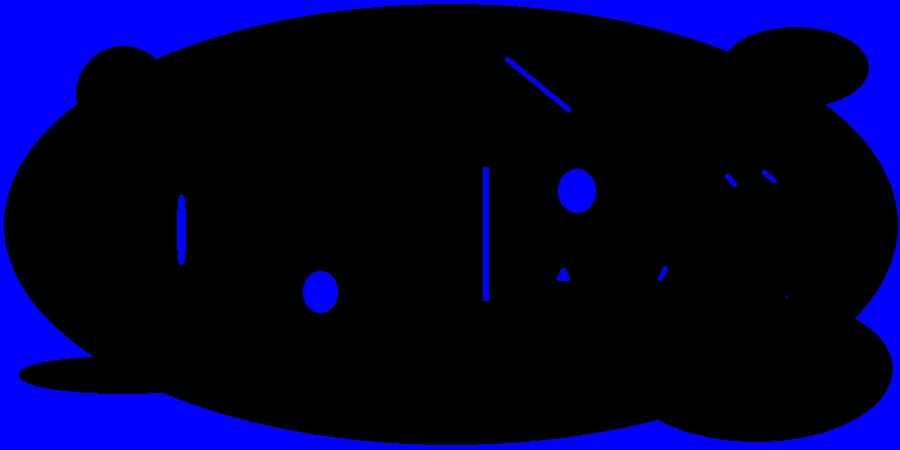
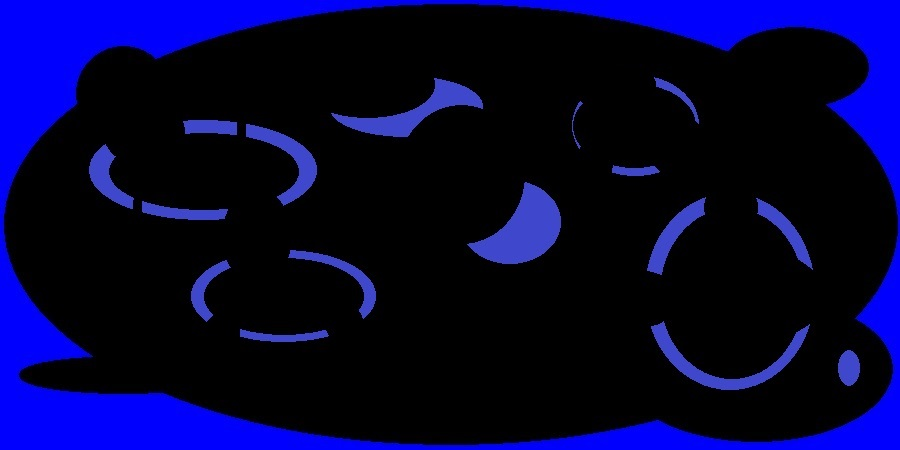
20191124-01

diff --git a/Environment/Body/FreeRunner.cs b/Environment/Body/FreeRunner.cs
@@ -13,17 +13,24 @@ namespace Environment.Body
         private List<Sensor.Sonar> Sonares { get; set; } = new List<Sensor.Sonar>();
         #endregion
 
-        public double WallCollisionRatio { get; set; } = 3;
+        public double WallCollisionRatio { get; set; } = 2;
 
-        public int ViewAngle { get; set; } = 80;
-        public int ViewResolition { get; set; } = 10;
-        private List<int> ViewAngles { get; set; } = new List<int>() { 0, 1, 2, 3, 4, 5, 6, 8, 10, 13, 16, 20, 25, 30, 40, 50, 65, 85, 110 };
+        protected List<int> ViewAngles { get; set; } = new List<int>() { 0, 1, 2, 3, 4, 5, 6, 8, 10, 13, 16, 20, 25, 30, 40, 50, 65, 85 };
 
-        public double[] ToF_Distance { get; private set; }
+        public double[] ToF_Distance { get; protected set; }
+
+        protected Color Color { get; set; } = Color.Yellow;
+
+        protected virtual void SetColor()
+        {
+            Color = Color.Yellow;
+        }
 
         #region Constructor
         public FreeRunner()
         {
+            SetColor();
+
             for (int i = ViewAngles.Count - 1; i >= 0; i--)
             {
                 Sonares.Add(new Sensor.Sonar(-ViewAngles[i]));
@@ -69,15 +76,12 @@ namespace Environment.Body
             }
 
             g.DrawLine(Pens.LightGreen, new Point((int)X, (int)Y), new Point((int)(X + 20 * Vx), (int)(Y + 20 * Vy)));
-            g.DrawEllipse(new Pen(Color.Yellow, 2), (int)(X - Size / 2), (int)(Y - Size / 2), (int)Size, (int)Size);
-            g.DrawEllipse(new Pen(Color.Yellow, 2), (int)(X - 1), (int)(Y - 1), (int)3, (int)3);
+            g.DrawEllipse(new Pen(Color, 2), (int)(X - Size / 2), (int)(Y - Size / 2), (int)Size, (int)Size);
+            g.DrawEllipse(new Pen(Color, 2), (int)(X - 1), (int)(Y - 1), (int)3, (int)3);
         }
 
-        public override void WheelRotation(ref double left, ref double right)
+        protected double UpdateSonar()
         {
-            #region CollisionCheck
-            double nnx = 0, nny = 0, direction = 0, xcnt = 0;
-            int nearestid = -1;
             double dist = double.MaxValue;
             ToF_Distance = new double[Sonares.Count];
             int idx = 0;
@@ -89,10 +93,17 @@ namespace Environment.Body
                 idx++;
                 if (item.Distance < dist)
                 {
-                    nearestid = item.ID;
                     dist = item.Distance;
                 }
             }
+            return dist;
+        }
+
+        public override void WheelRotation(ref double left, ref double right)
+        {
+            #region CollisionCheck
+            double nnx = 0, nny = 0, direction = 0, xcnt = 0;
+            double dist = UpdateSonar();
             if (dist < BaseBody.Size / 2)
             {
                 this.IsDead = true;
@@ -149,6 +160,10 @@ namespace Environment.Body
 
         }
 
+        public override BaseBody InheritanceNew()
+        {
+            return new FreeRunner();
+        }
         public override void ViewImage(out Bitmap bitmap)
         {
             bitmap = new Bitmap(ToF_Distance.Length, 1);
@@ -174,5 +189,6 @@ namespace Environment.Body
                 bitmap.SetPixel(i, 0, Color.FromArgb((byte)dr, (byte)dg, (byte)db));
             }
         }
+
     }
 }

diff --git a/SpikeNL/Forms/MainForm.cs b/SpikeNL/Forms/MainForm.cs
@@ -18,9 +18,9 @@ namespace SpikeNL.Forms
         {
             InitializeComponent();
 
-            for (int i = 0; i < 10; i++)
+            for (int i = 0; i < 1; i++)
             {
-                Environment.Core.AddUnit(new Environment.Body.FreeRunner());
+                Environment.Core.AddUnit(new Environment.Body.GeneticRunner());
             }
 
             new System.Threading.Tasks.Task(() =>
@@ -44,14 +44,15 @@ namespace SpikeNL.Forms
                     pictureBox1.Image = Environment.Core.ShowImage;
                 }
 
-                if (Environment.Core.RepresentView != null)
+                if (Environment.Core.HasRepresentView)
                 {
-                    Bitmap resizeBmp = new Bitmap(pictureBox2.Width, pictureBox2.Height);
-                    Graphics g = Graphics.FromImage(resizeBmp);
-                    g.InterpolationMode = System.Drawing.Drawing2D.InterpolationMode.NearestNeighbor;
-                    g.DrawImage(Environment.Core.RepresentView, 0, 0, pictureBox2.Width, pictureBox2.Height);
-                    g.Dispose();
-                    pictureBox2.Image = resizeBmp;
+                    pictureBox2.Image = Environment.Core.RepresentView(pictureBox1.Size);
+                    //Bitmap resizeBmp = new Bitmap(pictureBox2.Width, pictureBox2.Height);
+                    //Graphics g = Graphics.FromImage(resizeBmp);
+                    //g.InterpolationMode = System.Drawing.Drawing2D.InterpolationMode.NearestNeighbor;
+                    //g.DrawImage(view, 0, 0, pictureBox2.Width, pictureBox2.Height);
+                    //g.Dispose();
+                    //= resizeBmp;
                 }
             }
         }
@@ -62,27 +63,6 @@ namespace SpikeNL.Forms
 
         private void MainForm_KeyUp(object sender, KeyEventArgs e)
         {
-            //double acc = 0.25;
-            //switch (e.KeyData)
-            //{
-            //    case Keys.Up:
-            //        tracker[0].SetOptionalWheel(0.25, acc);
-            //        break;
-            //    case Keys.Down:
-            //        tracker[0].SetOptionalWheel(-acc, -acc);
-            //        break;
-            //    case Keys.Left:
-            //        tracker[0].SetOptionalWheel(-acc, acc);
-            //        break;
-            //    case Keys.Right:
-            //        tracker[0].SetOptionalWheel(acc, -acc);
-            //        break;
-            //    case Keys.Space:
-            //        tracker[0].SetOptionalWheel(0, 0);
-            //        break;
-            //    default:
-            //        break;
-            //}
         }
 
         private void MainForm_FormClosing(object sender, FormClosingEventArgs e)

diff --git a/Environment/Core.cs b/Environment/Core.cs
@@ -15,7 +15,27 @@ namespace Environment
         }
 
         public static Bitmap ShowImage { get; private set; }
-        public static Bitmap RepresentView { get; private set; }
+
+        public static bool HasRepresentView
+        {
+            get { return innerRepresentView == null ? false : true; }
+        }
+        private static Bitmap innerRepresentView { get; set; }
+        public static Bitmap RepresentView(Size size)
+        {
+            Bitmap res = (Bitmap)innerRepresentView.Clone();
+            Bitmap view = new Bitmap(size.Width, size.Height);
+            Graphics g = Graphics.FromImage(view);
+            g.FillRectangle(Brushes.Black, new Rectangle(new Point(), size));
+
+            int stepsize = (int)(size.Width / res.Width) + 1;
+            for (int i = 0; i < res.Width; i++)
+            {
+                Color c = res.GetPixel(i, 0);
+                g.FillRectangle(new SolidBrush(c), new Rectangle(new Point(i * stepsize, 0), new Size(stepsize, size.Height)));
+            }
+            return view;
+        }
 
         public static void SetVision(Background.ModeType mode, Bitmap bitmap = null)
         {
@@ -64,7 +84,12 @@ namespace Environment
             }
             foreach (var item in remlist)
             {
+                var reborn = item.InheritanceNew();
                 Body.BodyList.UnitList.Remove(item);
+                if (reborn != null)
+                {
+                    AddUnit(reborn);
+                }
             }
             UpdateShowImage();
             GC.Collect();
@@ -84,11 +109,11 @@ namespace Environment
                 if (Body.BodyList.UnitList.Count > 0)
                 {
                     var rep = Body.BodyList.UnitList[0];
-                    g.DrawRectangle(new Pen(Color.Violet, 5), new Rectangle((int)(rep.X - Body.BaseBody.Size / 4), (int)(rep.Y - Body.BaseBody.Size / 4), (int)Body.BaseBody.Size / 2, (int)Body.BaseBody.Size / 2));
+                    g.DrawEllipse(new Pen(Color.MediumVioletRed, 5), new Rectangle((int)(rep.X - Body.BaseBody.Size / 4), (int)(rep.Y - Body.BaseBody.Size / 4), (int)Body.BaseBody.Size / 2, (int)Body.BaseBody.Size / 2));
 
                     Bitmap repView;
                     rep.ViewImage(out repView);
-                    RepresentView = repView;
+                    innerRepresentView = repView;
                 }
 
                 ShowImage = bitmap;

diff --git a/SpikeNL/Forms/MainForm.Designer.cs b/SpikeNL/Forms/MainForm.Designer.cs
@@ -41,9 +41,9 @@
             // pictureBox1
             // 
             this.pictureBox1.Dock = System.Windows.Forms.DockStyle.Fill;
-            this.pictureBox1.Location = new System.Drawing.Point(0, 25);
+            this.pictureBox1.Location = new System.Drawing.Point(0, 50);
             this.pictureBox1.Name = "pictureBox1";
-            this.pictureBox1.Size = new System.Drawing.Size(500, 236);
+            this.pictureBox1.Size = new System.Drawing.Size(500, 211);
             this.pictureBox1.SizeMode = System.Windows.Forms.PictureBoxSizeMode.Zoom;
             this.pictureBox1.TabIndex = 0;
             this.pictureBox1.TabStop = false;
@@ -56,11 +56,12 @@
             // 
             // panel1
             // 
+            this.panel1.BackColor = System.Drawing.Color.DimGray;
             this.panel1.Controls.Add(this.pictureBox2);
             this.panel1.Dock = System.Windows.Forms.DockStyle.Top;
             this.panel1.Location = new System.Drawing.Point(0, 0);
             this.panel1.Name = "panel1";
-            this.panel1.Size = new System.Drawing.Size(500, 25);
+            this.panel1.Size = new System.Drawing.Size(500, 50);
             this.panel1.TabIndex = 1;
             // 
             // pictureBox2
@@ -68,7 +69,8 @@
             this.pictureBox2.Dock = System.Windows.Forms.DockStyle.Fill;
             this.pictureBox2.Location = new System.Drawing.Point(0, 0);
             this.pictureBox2.Name = "pictureBox2";
-            this.pictureBox2.Size = new System.Drawing.Size(500, 25);
+            this.pictureBox2.Size = new System.Drawing.Size(500, 50);
+            this.pictureBox2.SizeMode = System.Windows.Forms.PictureBoxSizeMode.StretchImage;
             this.pictureBox2.TabIndex = 0;
             this.pictureBox2.TabStop = false;
             // 
@@ -76,6 +78,7 @@
             // 
             this.AutoScaleDimensions = new System.Drawing.SizeF(6F, 12F);
             this.AutoScaleMode = System.Windows.Forms.AutoScaleMode.Font;
+            this.BackColor = System.Drawing.Color.Black;
             this.ClientSize = new System.Drawing.Size(500, 261);
             this.Controls.Add(this.pictureBox1);
             this.Controls.Add(this.panel1);

diff --git a/Environment/Body/WheelCar.cs b/Environment/Body/WheelCar.cs
@@ -13,16 +13,17 @@ namespace Environment.Body
         #region Property/Field
         public double WheelRadius { get; set; } = 2.5;
 
+        public double Error { get; set; } = 0.025;
+        public double Inertia { get; set; } = 0.85;
+
         private double wr { get; set; }
         private double wl { get; set; }
         #endregion
 
         public void SetWheel(double l, double r)
         {
-            double error = 0.05;
-            double rho = 0.9;
-            wl = rho * wl + (1 - rho) * l + error * (random.NextDouble() * 2 - 1);
-            wr = rho * wr + (1 - rho) * r + error * (random.NextDouble() * 2 - 1);
+            wl = Inertia * wl + (1 - Inertia) * l + Error * (random.NextDouble() * 2 - 1);
+            wr = Inertia * wr + (1 - Inertia) * r + Error * (random.NextDouble() * 2 - 1);
         }
 
         public override void Growup()
@@ -31,7 +32,10 @@ namespace Environment.Body
             l = r = 1;
             WheelRotation(ref l, ref r);
             double n = Math.Sqrt(l * l + r * r);
-            l /= n;r /= n;
+            if (n > 1)
+            {
+                l /= n; r /= n;
+            }
             SetWheel(l, r);
         }
 

diff --git a/Environment/Body/GeneticRunner.cs b/Environment/Body/GeneticRunner.cs
@@ -1,0 +1,34 @@
+using System;
+using System.Collections.Generic;
+using System.Drawing;
+using System.Linq;
+using System.Text;
+using System.Threading.Tasks;
+
+namespace Environment.Body
+{
+    public class GeneticRunner : FreeRunner
+    {
+
+        protected override void SetColor()
+        {
+            Color = Color.LawnGreen;
+        }
+
+        public override void WheelRotation(ref double left, ref double right)
+        {
+            double dist = UpdateSonar();
+
+            if (dist < BaseBody.Size / 2)
+            {
+                this.IsDead = true;
+            }
+
+        }
+
+        public override BaseBody InheritanceNew()
+        {
+            return new GeneticRunner();
+        }
+    }
+}

diff --git a/Environment/Body/BaseBody.cs b/Environment/Body/BaseBody.cs
@@ -53,6 +53,8 @@ namespace Environment.Body
         public abstract void Update();
         public abstract void Growup();
 
+        public abstract BaseBody InheritanceNew();
+
         public virtual void ViewImage(out System.Drawing.Bitmap bitmap)
         {
             bitmap = new System.Drawing.Bitmap(1, 1);
